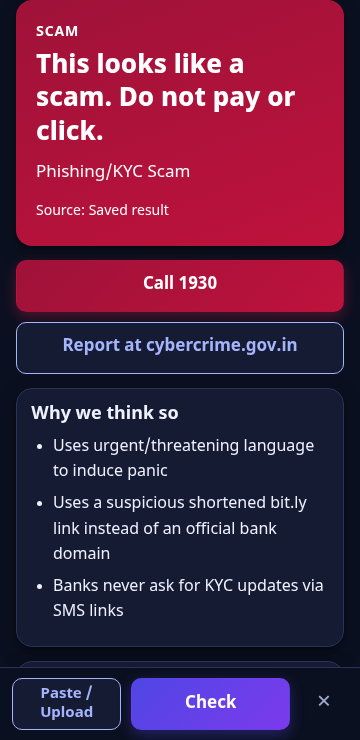
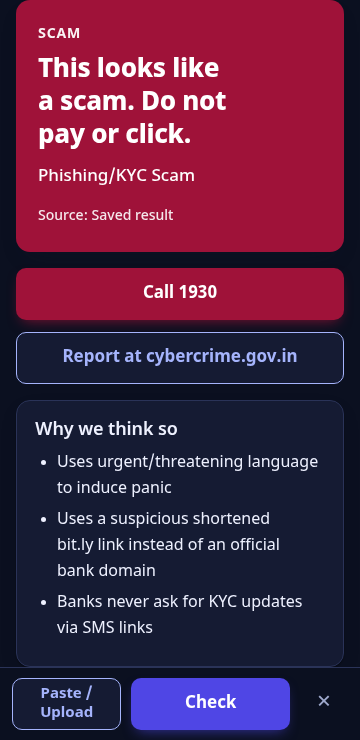
F7e UI: flat indigo, desktop empty-state card, fade-in motion, new copy; refreshed screenshots

Changed region(s): [[0.0306, 0.2176, 0.9778, 0.9946], [0.0917, 0.0311, 0.825, 0.2486]]

diff --git a/web/app.js b/web/app.js
@@ -14,21 +14,21 @@ let imageFile = null;
 let last = null;
 
 const T = {
-  en: {hAi:'Couldn\'t fully check this right now. Be careful and try again in a minute.',tryAgain:'Try again',eNotImg:'That file is not a picture. Please choose a photo or screenshot.',eBusy:'We are busy right now. Please try again in a minute.',eOffline:'No internet connection. Please check your network and try again.',hintD:'Drop a screenshot here, paste it with Ctrl+V, or use the buttons above.',privTitle:'Privacy',hGreen:'This looks safe, but stay alert.',hAmber:'This looks suspicious. Be careful before you pay or click.',hRed:'This looks like a scam. Do not pay or click.',tag:'Got a message that feels wrong?',drop:'<strong>Drop a screenshot here</strong>, click to choose, or paste (Ctrl+V)',
+  en: {emTitle:'Your result will appear here',em1:'Add a screenshot, or paste the message text.',em2:'Press Check.',em3:'You will see whether it looks safe, and what to do next.',emHelp:'Already lost money? Call 1930 at once.',hAi:'Couldn\'t fully check this right now. Be careful and try again in a minute.',tryAgain:'Try again',eNotImg:'That file is not a picture. Please choose a photo or screenshot.',eBusy:'We are busy right now. Please try again in a minute.',eOffline:'No internet connection. Please check your network and try again.',hintD:'Drop a screenshot here, paste it with Ctrl+V, or use the buttons above.',privTitle:'Privacy',hGreen:'This looks safe, but stay alert.',hAmber:'This looks suspicious. Be careful before you pay or click.',hRed:'This looks like a scam. Do not pay or click.',tag:'Got a message that feels wrong?',drop:'<strong>Drop a screenshot here</strong>, click to choose, or paste (Ctrl+V)',
     textLbl:'Or paste the message text',ph:'Paste the SMS, WhatsApp or UPI message here',check:'Check',clear:'Clear',remove:'Remove',
     samples:'Or try a fake sample',privacy:'The free AI service may use what you send to improve its products. For this demo, please use only the fake samples. For real messages, use the offline version - ask the team.',
     red:'Scam',amber:'Suspicious',green:'Looks safe',why:'Why we think so',todo:'What to do now',found:'Found in the message',
     speak:'Read aloud',stop:'Stop',loading:'Checking...',slow:'Gemma is reading the screenshot... this can take up to a minute',slowTxt:'Gemma is reading the message... this can take up to a minute',empty:'Please add a screenshot or paste a message first.',
     err:'Could not check right now. Please try again.',ai:'AI is unavailable - this result is from rule-based checks only.',
     src_gemini:'AI (Gemma)',src_local:'Offline AI',src_cache:'Saved result',src_code:'Rules only',greenNote:'This still isn\'t a guarantee. If anything feels off, don\'t pay or click, and ask someone you trust.',camera:'Camera',gallery:'Gallery',pasteUp:'Paste / Upload',call:'Call 1930',rep:'Report at cybercrime.gov.in',hint:'Add a screenshot, or paste the text below.',draft:'Draft a complaint',dTitle:'Draft a complaint',dIntro:'All fields are optional. Skip anything you do not want to share.',fName:'Your name',fPhone:'Your phone',fAmount:'Amount lost (Rs)',fMethod:'Paid via',fWhat:'What happened',fDate:'Date & time',fTxn:'Transaction ID',more:'More details',mNone:'Select',mUpi:'UPI',mCard:'Card',mNet:'Net banking',mCash:'Cash',mOther:'Other',gen:'Generate',regen:'Generate again',gening:'Drafting...',subject:'Subject',body:'Complaint text (you can edit it)',copy:'Copy',copied:'Copied!',share:'Share',dl:'Download',openPortal:'Open cybercrime.gov.in',note:'Review before submitting. Do not include real Aadhaar, PIN or OTP.',missing:'Placeholders still to fill in:',cErr:'Could not draft the complaint. Please try again.',cTime:'Taking too long. Please try again.',aTitle:'Sign in to run live AI checks',aWhy:'Sample buttons work without signing in. Checking your own messages needs a Google sign-in and your own free Gemini key.',aOut:'Sign out',aKeyLbl:'Your Gemini API key',aShow:'Show',aHide:'Hide',aGet:'Get a free key',aRemove:'Remove key',aPriv:'Your key stays on this device and is sent only with your own checks.',eLogin:'Please sign in with Google to check your own messages. The sample buttons work without signing in.',eInvalid:'Your sign-in has expired. Please sign in with Google again.',eKey:'Please add your free Gemini API key below to check your own messages.',eKeyBad:'That Gemini API key was not accepted. Please check it or add a new one.',eRate:'Your Gemini key hit its usage limit. Please wait a minute and try again.',e413:'This picture is too large (over 4 MB). Please try a smaller screenshot.',urls:'Links',phones:'Phones',upi_ids:'UPI IDs',amounts:'Amounts',foot:'Report cyber fraud: call <b>1930</b> or visit <a href="https://cybercrime.gov.in" target="_blank" rel="noopener">cybercrime.gov.in</a>'},
-  hi: {hAi:'अभी इसे पूरी तरह जाँच नहीं पाए। सावधान रहें और एक मिनट बाद फिर कोशिश करें।',tryAgain:'फिर कोशिश करें',eNotImg:'यह फ़ाइल तस्वीर नहीं है। कृपया फ़ोटो या स्क्रीनशॉट चुनें।',eBusy:'अभी बहुत भीड़ है। कृपया एक मिनट बाद फिर कोशिश करें।',eOffline:'इंटरनेट नहीं चल रहा है। कृपया नेटवर्क जाँचकर फिर कोशिश करें।',hintD:'स्क्रीनशॉट यहाँ छोड़ें, Ctrl+V से पेस्ट करें, या ऊपर के बटन दबाएँ।',privTitle:'गोपनीयता',hGreen:'यह सुरक्षित लगता है, फिर भी सतर्क रहें।',hAmber:'यह संदिग्ध लगता है। पैसे देने या लिंक खोलने से पहले सावधान रहें।',hRed:'यह स्कैम लगता है। पैसे न दें, लिंक न खोलें।',tag:'कोई मैसेज गड़बड़ लग रहा है?',drop:'<strong>स्क्रीनशॉट यहाँ छोड़ें</strong>, क्लिक करके चुनें, या पेस्ट करें (Ctrl+V)',
+  hi: {emTitle:'आपका नतीजा यहाँ दिखेगा',em1:'स्क्रीनशॉट जोड़ें, या मैसेज का लिखा हुआ हिस्सा पेस्ट करें।',em2:'‘जाँचें’ दबाएँ।',em3:'आपको दिखेगा कि यह सुरक्षित लगता है या नहीं, और आगे क्या करना है।',emHelp:'पैसे चले गए हों तो तुरंत 1930 पर कॉल करें।',hAi:'अभी इसे पूरी तरह जाँच नहीं पाए। सावधान रहें और एक मिनट बाद फिर कोशिश करें।',tryAgain:'फिर कोशिश करें',eNotImg:'यह फ़ाइल तस्वीर नहीं है। कृपया फ़ोटो या स्क्रीनशॉट चुनें।',eBusy:'अभी बहुत भीड़ है। कृपया एक मिनट बाद फिर कोशिश करें।',eOffline:'इंटरनेट नहीं चल रहा है। कृपया नेटवर्क जाँचकर फिर कोशिश करें।',hintD:'स्क्रीनशॉट यहाँ छोड़ें, Ctrl+V से पेस्ट करें, या ऊपर के बटन दबाएँ।',privTitle:'गोपनीयता',hGreen:'यह सुरक्षित लगता है, फिर भी सतर्क रहें।',hAmber:'यह संदिग्ध लगता है। पैसे देने या लिंक खोलने से पहले सावधान रहें।',hRed:'यह स्कैम लगता है। पैसे न दें, लिंक न खोलें।',tag:'कोई मैसेज गड़बड़ लग रहा है?',drop:'<strong>स्क्रीनशॉट यहाँ छोड़ें</strong>, क्लिक करके चुनें, या पेस्ट करें (Ctrl+V)',
     textLbl:'या मैसेज का टेक्स्ट पेस्ट करें',ph:'SMS, WhatsApp या UPI मैसेज यहाँ पेस्ट करें',check:'जाँचें',clear:'साफ़ करें',remove:'हटाएँ',
     samples:'या नकली नमूना आज़माएँ',privacy:'मुफ़्त AI सेवा आपके भेजे मैसेज को अपने उत्पाद सुधारने में इस्तेमाल कर सकती है। इस डेमो में सिर्फ़ नकली नमूने इस्तेमाल करें। असली मैसेज के लिए ऑफ़लाइन संस्करण इस्तेमाल करें - टीम से पूछें।',
     red:'स्कैम',amber:'संदिग्ध',green:'सुरक्षित लगता है',why:'ऐसा क्यों लगा',todo:'अब क्या करें',found:'मैसेज में मिला',
     speak:'सुनें',stop:'रोकें',loading:'जाँच हो रही है...',slow:'Gemma स्क्रीनशॉट पढ़ रहा है... इसमें एक मिनट तक लग सकता है',slowTxt:'Gemma मैसेज पढ़ रहा है... इसमें एक मिनट तक लग सकता है',empty:'कृपया पहले स्क्रीनशॉट जोड़ें या मैसेज पेस्ट करें।',
     err:'अभी जाँच नहीं हो सकी। कृपया दोबारा कोशिश करें।',ai:'AI उपलब्ध नहीं है - यह नतीजा सिर्फ़ नियम-आधारित जाँच से है।',
     src_gemini:'AI (Gemma)',src_local:'ऑफ़लाइन AI',src_cache:'सेव किया गया परिणाम',src_code:'सिर्फ़ नियम',greenNote:'यह गारंटी नहीं है। कुछ भी गड़बड़ लगे तो पैसे न दें, लिंक न खोलें, और किसी भरोसेमंद से पूछें।',camera:'कैमरा',gallery:'गैलरी',pasteUp:'पेस्ट / अपलोड',call:'1930 पर कॉल करें',rep:'cybercrime.gov.in पर शिकायत करें',hint:'स्क्रीनशॉट जोड़ें, या नीचे मैसेज पेस्ट करें।',draft:'शिकायत का मसौदा बनाएँ',dTitle:'शिकायत का मसौदा',dIntro:'सभी जानकारी वैकल्पिक है। जो साझा नहीं करना चाहते उसे छोड़ दें।',fName:'आपका नाम',fPhone:'आपका फ़ोन',fAmount:'गँवाई रकम (रु)',fMethod:'भुगतान का तरीका',fWhat:'क्या हुआ',fDate:'तारीख़ और समय',fTxn:'ट्रांज़ैक्शन आईडी',more:'और जानकारी',mNone:'चुनें',mUpi:'UPI',mCard:'कार्ड',mNet:'नेट बैंकिंग',mCash:'नकद',mOther:'अन्य',gen:'बनाएँ',regen:'फिर से बनाएँ',gening:'बन रहा है...',subject:'विषय',body:'शिकायत का पाठ (आप बदल सकते हैं)',copy:'कॉपी',copied:'कॉपी हो गया!',share:'शेयर',dl:'डाउनलोड',openPortal:'cybercrime.gov.in खोलें',note:'जमा करने से पहले जाँच लें। असली आधार, PIN या OTP न लिखें।',missing:'भरने के लिए बाकी जगहें:',cErr:'शिकायत का मसौदा नहीं बन सका। कृपया दोबारा कोशिश करें।',cTime:'बहुत देर लग रही है। कृपया दोबारा कोशिश करें।',aTitle:'लाइव AI जाँच के लिए साइन इन करें',aWhy:'सैंपल बटन बिना साइन इन के चलते हैं। अपने मैसेज जाँचने के लिए Google साइन-इन और आपकी अपनी मुफ़्त Gemini कुंजी चाहिए।',aOut:'साइन आउट',aKeyLbl:'आपकी Gemini API कुंजी',aShow:'दिखाएँ',aHide:'छिपाएँ',aGet:'मुफ़्त कुंजी पाएँ',aRemove:'कुंजी हटाएँ',aPriv:'आपकी कुंजी इसी डिवाइस पर रहती है और सिर्फ़ आपकी अपनी जाँच के साथ भेजी जाती है।',eLogin:'अपने मैसेज जाँचने के लिए कृपया Google से साइन इन करें। सैंपल बटन बिना साइन इन के चलते हैं।',eInvalid:'आपका साइन-इन समाप्त हो गया है। कृपया Google से दोबारा साइन इन करें।',eKey:'अपने मैसेज जाँचने के लिए कृपया नीचे अपनी मुफ़्त Gemini API कुंजी जोड़ें।',eKeyBad:'यह Gemini API कुंजी स्वीकार नहीं हुई। कृपया जाँचें या नई कुंजी जोड़ें।',eRate:'आपकी Gemini कुंजी की सीमा पूरी हो गई है। कृपया एक मिनट रुककर दोबारा कोशिश करें।',e413:'यह तस्वीर बहुत बड़ी है (4 MB से ज़्यादा)। कृपया छोटा स्क्रीनशॉट आज़माएँ।',urls:'लिंक',phones:'फ़ोन',upi_ids:'UPI आईडी',amounts:'रकम',foot:'साइबर ठगी की शिकायत: <b>1930</b> पर कॉल करें या <a href="https://cybercrime.gov.in" target="_blank" rel="noopener">cybercrime.gov.in</a> पर जाएँ'},
-  gu: {hAi:'અત્યારે આને પૂરેપૂરું તપાસી શક્યા નથી. સાવચેત રહો અને એક મિનિટ પછી ફરી પ્રયત્ન કરો.',tryAgain:'ફરી પ્રયત્ન કરો',eNotImg:'આ ફાઇલ ફોટો નથી. કૃપા કરીને ફોટો કે સ્ક્રીનશૉટ પસંદ કરો.',eBusy:'અત્યારે ઘણી ભીડ છે. કૃપા કરીને એક મિનિટ પછી ફરી પ્રયત્ન કરો.',eOffline:'ઇન્ટરનેટ ચાલતું નથી. કૃપા કરીને નેટવર્ક તપાસીને ફરી પ્રયત્ન કરો.',hintD:'સ્ક્રીનશૉટ અહીં મૂકો, Ctrl+V થી પેસ્ટ કરો, અથવા ઉપરના બટન દબાવો.',privTitle:'ગોપનીયતા',hGreen:'આ સુરક્ષિત લાગે છે, તોપણ સાવચેત રહેજો.',hAmber:'આ શંકાસ્પદ લાગે છે. પૈસા ચૂકવતા કે લિંક ખોલતા પહેલાં સાવચેત રહો.',hRed:'આ સ્કેમ લાગે છે. પૈસા ન ચૂકવો, લિંક ન ખોલો.',tag:'કોઈ મેસેજ શંકાસ્પદ લાગે છે?',drop:'<strong>સ્ક્રીનશૉટ અહીં મૂકો</strong>, ક્લિક કરીને પસંદ કરો, અથવા પેસ્ટ કરો (Ctrl+V)',
+  gu: {emTitle:'તમારું પરિણામ અહીં દેખાશે',em1:'સ્ક્રીનશૉટ ઉમેરો, અથવા મેસેજનું લખાણ પેસ્ટ કરો.',em2:'‘તપાસો’ દબાવો.',em3:'તમને દેખાશે કે આ સુરક્ષિત લાગે છે કે નહીં, અને આગળ શું કરવું.',emHelp:'પૈસા ગયા હોય તો તરત 1930 પર કૉલ કરો.',hAi:'અત્યારે આને પૂરેપૂરું તપાસી શક્યા નથી. સાવચેત રહો અને એક મિનિટ પછી ફરી પ્રયત્ન કરો.',tryAgain:'ફરી પ્રયત્ન કરો',eNotImg:'આ ફાઇલ ફોટો નથી. કૃપા કરીને ફોટો કે સ્ક્રીનશૉટ પસંદ કરો.',eBusy:'અત્યારે ઘણી ભીડ છે. કૃપા કરીને એક મિનિટ પછી ફરી પ્રયત્ન કરો.',eOffline:'ઇન્ટરનેટ ચાલતું નથી. કૃપા કરીને નેટવર્ક તપાસીને ફરી પ્રયત્ન કરો.',hintD:'સ્ક્રીનશૉટ અહીં મૂકો, Ctrl+V થી પેસ્ટ કરો, અથવા ઉપરના બટન દબાવો.',privTitle:'ગોપનીયતા',hGreen:'આ સુરક્ષિત લાગે છે, તોપણ સાવચેત રહેજો.',hAmber:'આ શંકાસ્પદ લાગે છે. પૈસા ચૂકવતા કે લિંક ખોલતા પહેલાં સાવચેત રહો.',hRed:'આ સ્કેમ લાગે છે. પૈસા ન ચૂકવો, લિંક ન ખોલો.',tag:'કોઈ મેસેજ શંકાસ્પદ લાગે છે?',drop:'<strong>સ્ક્રીનશૉટ અહીં મૂકો</strong>, ક્લિક કરીને પસંદ કરો, અથવા પેસ્ટ કરો (Ctrl+V)',
     textLbl:'અથવા મેસેજનું લખાણ પેસ્ટ કરો',ph:'SMS, WhatsApp કે UPI મેસેજ અહીં પેસ્ટ કરો',check:'તપાસો',clear:'સાફ કરો',remove:'કાઢી નાખો',
     samples:'અથવા નકલી નમૂનો અજમાવો',privacy:'મફત AI સેવા તમે મોકલેલા મેસેજનો ઉપયોગ પોતાના ઉત્પાદનો સુધારવા કરી શકે છે. આ ડેમોમાં ફક્ત નકલી નમૂના વાપરો. અસલી મેસેજ માટે ઑફલાઇન આવૃત્તિ વાપરો - ટીમને પૂછો.',
     red:'સ્કેમ',amber:'શંકાસ્પદ',green:'સુરક્ષિત લાગે છે',why:'આવું કેમ લાગ્યું',todo:'હવે શું કરવું',found:'મેસેજમાં મળ્યું',

diff --git a/web/style.css b/web/style.css
@@ -175,7 +175,7 @@ body.sheet-open{overflow:hidden}
  .chips-wrap{margin-top:10px}
 }
 
-/* F7c: v1 palette on the F7b structure */
+/* F7c: v1 palette on the F7b structure (flattened in F7e below) */
 .top{background:linear-gradient(135deg,#4f46e5 0%,#7c3aed 62%,#9b2fd0 120%);border-top:0;border-bottom:0;border-radius:0 0 24px 24px;box-shadow:0 8px 24px rgba(79,70,229,.28);color:#fff}
 h1{color:#fff}.sub{color:#f5f3ff}
 .seg{border-color:#fff}
@@ -205,3 +205,59 @@ h1{color:#fff}.sub{color:#f5f3ff}
  .call{background:linear-gradient(135deg,#9f1239 0%,#be123c 100%)}
  .lang.active{color:#312e81}
 }
+
+/* F7e: typography rhythm, calmer surfaces, motion, empty state */
+:root{--r:14px;--ease:cubic-bezier(.16,1,.3,1);--tint:rgba(49,46,129,.10)}
+body{font-feature-settings:"kern","liga";font-variant-numeric:tabular-nums}
+h1,h2,.vlabel,.hint,.sub{text-wrap:balance}
+p,li,.greennote,.warn,.note,.privacy{text-wrap:pretty}
+h1{font-weight:700;letter-spacing:-.015em}
+.ctitle{font-weight:700;letter-spacing:-.01em;margin-bottom:14px}
+h2{font-weight:650;letter-spacing:-.005em}
+.lbl{font-weight:600;letter-spacing:.005em;margin:6px 0 8px}
+.card{padding:20px;box-shadow:0 1px 2px var(--tint),0 8px 24px -12px var(--tint);margin-bottom:16px}
+main{gap:20px}
+.top{background:#4338ca;border-radius:0 0 20px 20px;box-shadow:0 10px 24px -14px rgba(49,46,129,.6)}
+.verdict{padding:24px 22px;box-shadow:0 10px 24px -14px rgba(20,20,40,.45);margin-bottom:16px}
+.verdict.red{background:#c4143f}
+.verdict.amber{background:#f5a524}
+.verdict.green{background:#e9fbf0}
+.vkick{font-weight:700;opacity:.95}
+.vlabel{letter-spacing:-.012em;line-height:1.28;margin-top:8px}
+.vtype{font-weight:500;margin-top:10px}
+.pri{background:#4f46e5;box-shadow:0 6px 14px -6px rgba(79,70,229,.7)}
+.call{background:#be123c;box-shadow:0 6px 14px -6px rgba(190,18,60,.7)}
+.draft{background:#f5a524;box-shadow:0 6px 14px -6px rgba(180,100,0,.55)}
+.speak.on,.steps li::before{background:#4f46e5}
+.steps li{margin:14px 0;line-height:1.55}
+.steps li::before{box-shadow:none}
+.help{gap:12px;margin-bottom:16px}
+.btn,.sample,.tile,.lang,.link,summary{transition:background-color .18s var(--ease),transform .18s var(--ease),box-shadow .18s var(--ease),filter .18s var(--ease),border-color .18s var(--ease)}
+.btn:active,.sample:active,.tile:active{transform:scale(.98)}
+.sample{border-radius:10px;border-color:color-mix(in srgb,var(--accent) 28%,var(--line));font-weight:500}
+.sample:active{background:var(--accent-soft)}
+textarea,.drop{border-radius:12px}
+.chip{border-radius:8px;background:var(--accent-soft)}
+.chip b{color:var(--accent)}
+.badge{opacity:.9;font-weight:500}
+.empty{border-style:dashed;box-shadow:none;background:transparent;padding:24px}
+.empty .ctitle{margin-bottom:6px}
+.emhelp{margin:18px 0 0;padding-top:16px;border-top:1px solid var(--line);color:var(--muted);font-size:16px}
+@media(max-width:767px){.empty{display:none}}
+.col-out:has(#result:not([hidden])) .empty,.col-out:has(#loading:not([hidden])) .empty,.col-out:has(#error:not([hidden])) .empty{display:none}
+@keyframes rise{from{opacity:0;transform:translateY(10px)}to{opacity:1;transform:none}}
+#result:not([hidden])>*,#empty,#error:not([hidden]),#loading:not([hidden]){animation:rise .5s var(--ease) both}
+#result:not([hidden])>:nth-child(2){animation-delay:60ms}
+#result:not([hidden])>:nth-child(3){animation-delay:120ms}
+#result:not([hidden])>:nth-child(4){animation-delay:180ms}
+#result:not([hidden])>:nth-child(n+5){animation-delay:240ms}
+@media(max-width:767px){.card{padding:18px}.top{border-radius:0 0 16px 16px}}
+@media(prefers-color-scheme:dark){
+ :root{--tint:rgba(0,0,0,.35)}
+ .top{background:#312e81;box-shadow:0 10px 24px -14px rgba(0,0,0,.7)}
+ .verdict.red{background:#9f1239}
+ .verdict.green{background:#14532d}
+ .call{background:#9f1239}
+ .chip b{color:var(--accent)}
+}
+@media(prefers-reduced-motion:reduce){*{animation:none!important;transition:none!important}.btn:active,.sample:active,.tile:active{transform:none}}

diff --git a/web/index.html b/web/index.html
@@ -75,6 +75,11 @@
   <section class="col-out">
     <div id="loading" class="loading card" hidden><div class="spin"></div><span id="loadTxt"></span></div>
     <div id="error" class="error" hidden></div>
+    <section id="empty" class="empty card" aria-labelledby="emTitle">
+      <h2 id="emTitle" class="ctitle" data-i18n="emTitle"></h2>
+      <ol class="steps"><li data-i18n="em1"></li><li data-i18n="em2"></li><li data-i18n="em3"></li></ol>
+      <p class="emhelp" data-i18n="emHelp"></p>
+    </section>
     <div id="result" class="result" hidden aria-live="polite">
       <div id="verdict" class="verdict">
         <div id="vkick" class="vkick"></div>
